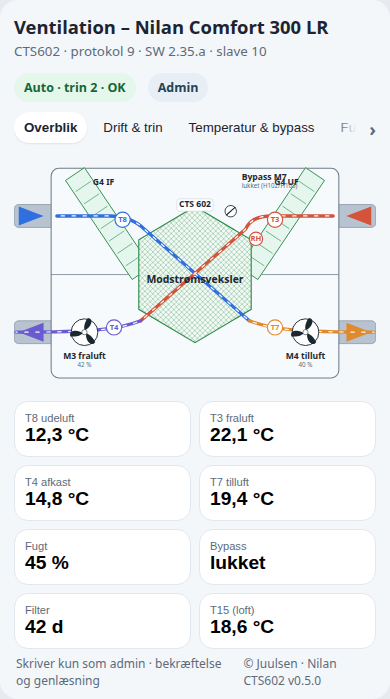
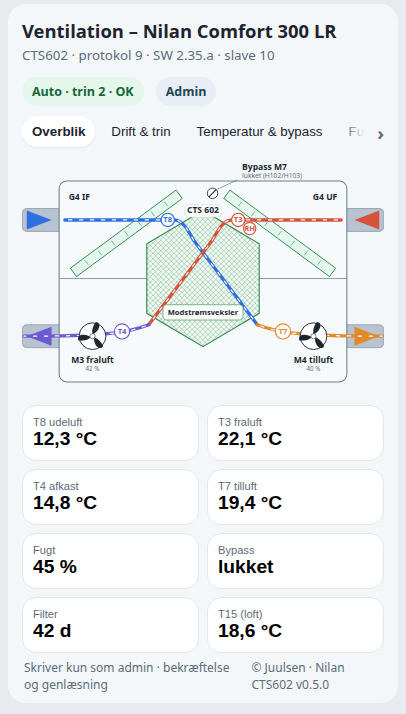
Correct the filter slant and clear the overlapping overview labels.
The outdoor filter now runs from the hexagon's upper-left down to the left side of the centre line, with the extract filter mirrored. The bypass name sits above the housing, and the exchanger name sits on a plate below the crossing.

diff --git a/custom_components/nilan_cts602/frontend/nilan-diagram.js b/custom_components/nilan_cts602/frontend/nilan-diagram.js
@@ -22,7 +22,8 @@
       .big-arrow.supply{fill:var(--flow-supply)}
       .hx-hex{fill:var(--hx-fill);stroke:var(--hx-line);stroke-width:2.4}
       .hx-hatch{fill:url(#nilan-hex);stroke:none}
-      .hx-label{font-size:16px;font-weight:700;fill:var(--hmi-ink);text-anchor:middle}
+      .hx-plate{fill:var(--hmi-box);stroke:var(--hx-line);stroke-width:1.3}
+      .hx-label{font-size:15px;font-weight:700;fill:var(--hmi-ink);text-anchor:middle}
       .cts-tag{fill:var(--hmi-box);stroke:var(--hmi-line);stroke-width:1.2}
       .filter-panel{fill:var(--filter-fill);stroke:var(--filter-stroke);stroke-width:2}
       .filter-pleat{fill:none;stroke:var(--filter-stroke);stroke-width:1.3}
@@ -60,11 +61,13 @@
       .panel{stroke:var(--hmi-muted);stroke-width:1.5;stroke-dasharray:5 4}
       .swatch{fill:var(--plaque-line)}
       .leader{fill:none;stroke:var(--hmi-muted);stroke-width:1.4;stroke-dasharray:4 4}
+      .callout{fill:none;stroke:var(--hmi-muted);stroke-width:1.35}
       .damper-ring{fill:var(--hmi-box);stroke:var(--hmi-ink);stroke-width:1.8}
       .damper{fill:none;stroke:var(--hmi-ink);stroke-width:2.4;stroke-linecap:round}
       .drop{fill:var(--drop)}
       .coil{fill:none;stroke:var(--alarm);stroke-width:2.2}
-      svg.compact .hx-label{font-size:22px}
+      svg.compact .hx-label{font-size:16px}
+      svg.compact .bypass-label{font-size:14px}
       svg.compact .tag{font-size:18px}
       svg.compact .sensor-label{font-size:16px}
       svg.compact .verbose{display:none}
@@ -97,7 +100,7 @@
     <text class="tag" x="442" y="42">CTS-panel · T15</text>
     <text class="muted" x="442" y="64">loft</text>
     <text class="value-text" font-size="32" x="684" y="78" text-anchor="end" data-sensor="t15_panel">${escape(data.t15 || '—')}</text>
-    <line class="leader" x1="550" y1="120" x2="550" y2="191"/>
+    <line class="leader" x1="550" y1="120" x2="550" y2="201"/>
   </g>
   <text class="side" x="16" y="200">Udeluft</text>
   <text class="muted" x="16" y="218">fra det fri</text>
@@ -147,7 +150,7 @@
     const fit = plant || {};
     const bypass = data.bypass || 'closed';
     const filterClass = data.filterAlarm ? 'filter alarm' : 'filter';
-    const damper = bypass === 'open' ? 'M 443 118 H 467' : 'M 446 126 L 464 110';
+    const damper = bypass === 'open' ? 'M 389 72 H 411' : 'M 393 79 L 407 65';
     const stateLine = bypass === 'open'
       ? 'åben (H102/H103)'
       : bypass === 'closed'
@@ -161,9 +164,9 @@
       : fit.reheater === 'electric'
         ? coil(668, 360, 'reheater')
         : '';
-    const blue = 'M90 128 H200 C236 128 258 140 274 156 L494 348';
+    const blue = 'M90 128 H320 C336 128 348 148 360 170 L494 348';
     const orange = 'M494 348 C540 366 590 372 756 372';
-    const red = 'M670 128 H540 C508 128 492 142 486 156 L266 348';
+    const red = 'M670 128 H440 C424 128 412 148 400 170 L266 348';
     const purple = 'M266 348 C220 366 170 372 4 372';
     const dash = move
       ? `<path class="flow-dash" d="${blue}"/><path class="flow-dash" d="${orange}"/><path class="flow-dash" d="${red}"/><path class="flow-dash" d="${purple}"/>`
@@ -177,13 +180,13 @@
   <polygon class="big-arrow extract" points="750,108 698,128 750,148"/>
   <polygon class="big-arrow exhaust" points="62,352 10,372 62,392"/>
   <polygon class="big-arrow supply" points="698,352 750,372 698,392"/>
-  <rect class="housing" x="78" y="28" width="604" height="440" rx="16" data-part="housing"/>
+  <rect class="housing" x="78" y="46" width="604" height="422" rx="16" data-part="housing"/>
   <line class="split" x1="78" y1="251" x2="682" y2="251"/>
   ${pre}
-  ${longFilter(128, 40, 268, 248, filterClass, 'outdoor')}
-  <text class="tag" x="188" y="62" text-anchor="middle">${leftName}</text>
-  ${longFilter(632, 40, 492, 248, filterClass, 'extract')}
-  <text class="tag" x="572" y="62" text-anchor="middle">${rightName}</text>
+  ${longFilter(330, 74, 108, 238, filterClass, 'outdoor')}
+  <text class="tag filter-label" x="98" y="86">${leftName}</text>
+  ${longFilter(430, 74, 652, 238, filterClass, 'extract')}
+  <text class="tag filter-label" x="662" y="86" text-anchor="end">${rightName}</text>
   <polygon class="hx-hex" points="${HEX}" data-part="exchanger"/>
   <polygon class="hx-hatch" points="${HEX}"/>
   <path class="flow outdoor" data-flow="outdoor" data-part="outdoor" d="${blue}"/>
@@ -191,18 +194,20 @@
   <path class="flow extract" data-flow="extract" data-part="extract" d="${red}"/>
   <path class="flow exhaust" data-flow="exhaust" data-part="exhaust" d="${purple}"/>
   ${dash}
-  <rect class="cts-tag" x="342" y="92" width="76" height="26" rx="6"/>
-  <text class="tag" x="380" y="110" text-anchor="middle">CTS 602</text>
-  <text class="hx-label" x="380" y="268">Modstrømsveksler</text>
-  ${sensor(228, 136, 'T8', 't8_outdoor', 'outdoor', 16)}
-  ${sensor(548, 136, 'T3', 't3_extract', 'extract', 16)}
-  ${sensor(508, 176, 'RH', 'humidity', 'extract', 14)}
+  <rect class="hx-plate" x="296" y="306" width="168" height="32" rx="7"/>
+  <text class="hx-label" x="380" y="327">Modstrømsveksler</text>
+  <rect class="cts-tag" x="342" y="96" width="76" height="26" rx="6"/>
+  <text class="tag" x="380" y="114" text-anchor="middle">CTS 602</text>
+  ${sensor(306, 128, 'T8', 't8_outdoor', 'outdoor', 14)}
+  ${sensor(454, 128, 'T3', 't3_extract', 'extract', 14)}
+  ${sensor(478, 146, 'RH', 'humidity', 'extract', 13)}
   ${sensor(210, 362, 'T4', 't4_exhaust', 'exhaust', 16)}
   ${sensor(548, 362, 'T7', 't7_supply', 'supply', 16)}
-  <circle class="damper-ring" cx="455" cy="118" r="12"/>
+  <circle class="damper-ring" cx="400" cy="72" r="11"/>
   <path class="damper" d="${damper}" data-part="bypass" data-state="${bypass}"/>
-  <text class="tag bypass-label" x="478" y="52">Bypass M7</text>
-  <text class="muted bypass-label" x="478" y="70">${escape(stateLine)}</text>
+  <line class="callout" x1="452" y1="44" x2="409" y2="64"/>
+  <text class="tag bypass-label" x="462" y="24">Bypass M7</text>
+  <text class="muted bypass-label" x="462" y="40">${escape(stateLine)}</text>
   ${fan(148, 372, 'extract_fan', data.extractSpin)}
   <text class="tag" x="148" y="428" text-anchor="middle">M3 fraluft</text>
   <text class="muted" x="148" y="446" text-anchor="middle">${escape(data.m3 || '')}</text>
@@ -228,7 +233,7 @@
     const len = Math.hypot(dx, dy) || 1;
     const px = -dy / len;
     const py = dx / len;
-    const w = 24;
+    const w = 11;
     const point = (x, y) => `${x.toFixed(1)},${y.toFixed(1)}`;
     const corners = [
       point(x1 + px * w, y1 + py * w),

diff --git a/CHANGELOG.md b/CHANGELOG.md
@@ -6,7 +6,7 @@ The project follows [Semantic Versioning](https://semver.org/). During the pre-1
 
 ## [0.5.0] - 2026-10-04
 
-- The overview follows the approved principle drawing. Grey ducts and large arrows enter and leave the housing. A horizontal line splits the housing. Two long diagonal G4 filter panels run from the top of the housing down to the centre line. The counterflow exchanger is a cross-hatched hexagon with a CTS 602 tag. Blue outdoor air runs through the hexagon and leaves as orange supply air, and red extract air runs through it and leaves as purple exhaust air. Sensor circles sit on those lines. It is not a rotary wheel.
+- The overview follows the approved principle drawing. Grey ducts and large arrows enter and leave the housing. A horizontal line splits the housing. Two thin G4 filter panels stay inside the upper half: the outdoor filter slants from the hexagon's upper-left down to the left side of the centre line, and the extract filter mirrors it. The bypass name sits above the housing with a short leader to the damper. The exchanger name sits on a plate in the lower half of the hexagon, clear of the crossing. The counterflow exchanger is a cross-hatched hexagon with a CTS 602 tag. Blue outdoor air runs through the hexagon and leaves as orange supply air, and red extract air runs through it and leaves as purple exhaust air. Sensor circles sit on those lines. It is not a rotary wheel.
 - `theme` stays `light`, `dark` or `auto`. `auto` follows Home Assistant dark mode. Every fill, stroke and label in the diagram uses those theme colours, including the housing, the four temperature boxes and the efficiency and T15 plaques. Labels sit clear of ducts, filters, fans and the bypass damper. On a narrow screen the drawing fills the card, the status line shortens, the tabs scroll with an edge fade, and the values sit in the grid below.
 - Equipment toggles default to off: electric preheater, electric reheater, water reheater (the two reheaters exclude each other), option board and CO₂. Missing parts are not drawn and do not create entities. Plant options migrate to version 2. T0 is the sensor on the controller board. T10 is an external room sensor.
 - Settings tabs: Drift & trin, Temperatur & bypass, Fugt & luftkvalitet, Ugeprogram, Filter & alarmer, Service & konfiguration. Each setting has an explanation, the range and the register.
